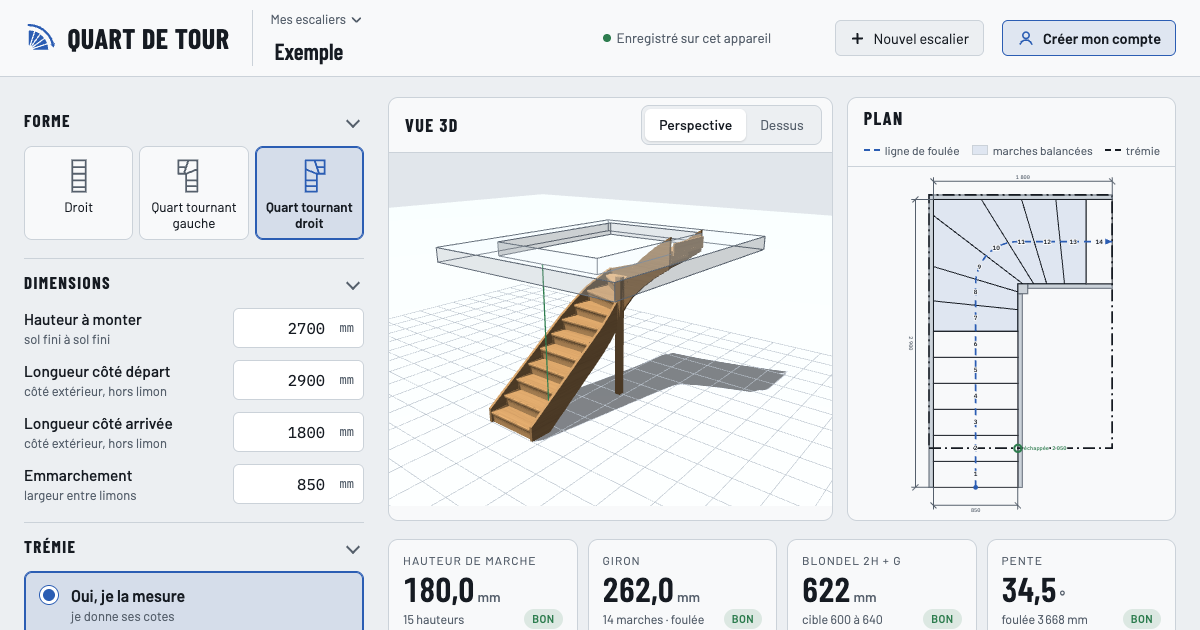
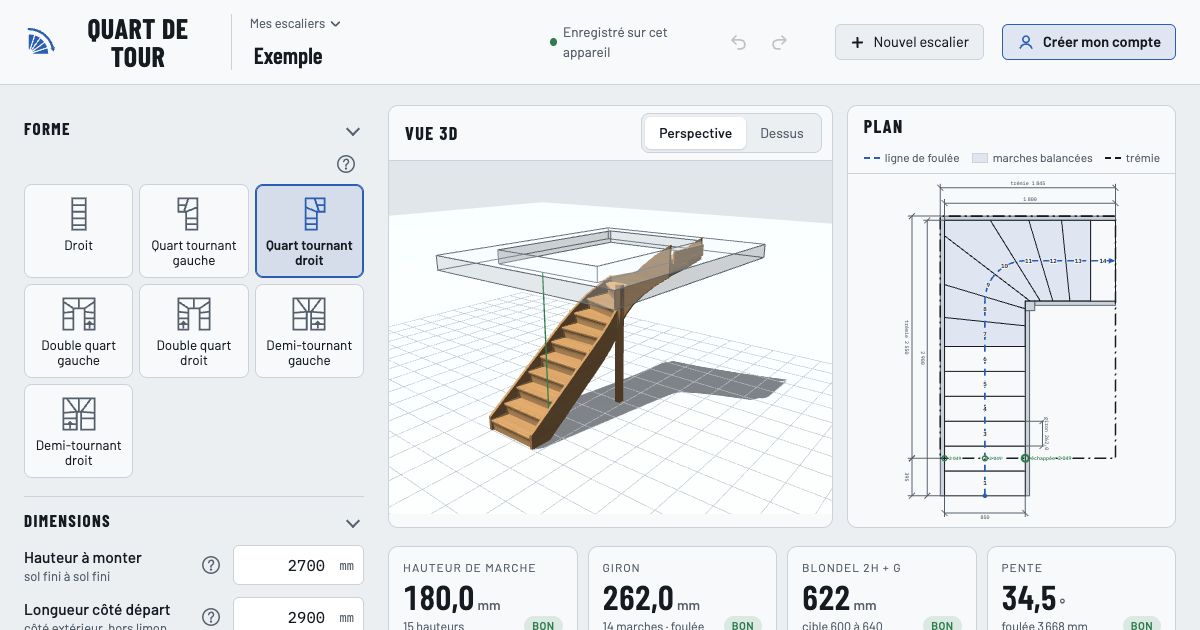
Exemple : trémie côté arrivée de 1 845, jusqu'au mur
Les 1 850 d'avant dépassaient de 5 mm le mur (B + el = 1 845 depuis le bord
du palier) : le plan cotait 1 845 et la fiche 1 850. Fiches des quarts
tournants et captures de la page publique refaites ; DXF et CSV inchangés.

diff --git a/tests/plan.test.ts b/tests/plan.test.ts
@@ -66,8 +66,9 @@ describe("plan coté", () => {
     const t = cotes(R);
     // Du départ au bord côté départ, du mur au bord côté jour : deux cotes de détail.
     for (const v of [R.A + el - 1800, R.B + el - 1200]) expect(t.find((c) => c.text === fmt(v))?.detail).toBe(true);
-    // L'exemple : 1 850 saisis, mais la trémie s'arrête au mur.
-    const E = stairOf({ forme: "quart-d" });
+    // L'exemple va du bord du palier au mur ; plus large, la trémie s'arrête au mur.
+    expect(find(stairOf({ forme: "quart-d" }), "trémie ")[1]!.text).toBe(`trémie ${fmt(DEFAULTS.tX)}`);
+    const E = stairOf({ forme: "quart-d", tX: 1900 });
     expect(find(E, "trémie ")[1]!.text).toBe(`trémie ${fmt(E.B + el)}`);
     // Trémie calculée : les cotes retenues.
     const A = stairOf({ forme: "quart-d", tAuto: true });

diff --git a/tests/summary.test.ts b/tests/summary.test.ts
@@ -9,7 +9,7 @@ describe("résumés des sections", () => {
     expect(sectionSummaries(R.params, R)).toEqual({
       forme: "Quart tournant droit",
       dimensions: "2 700 de haut · 2 900 × 1 800 · 850 de large",
-      tremie: "2 550 × 1 850",
+      tremie: "2 550 × 1 845",
       marches: "15 hauteurs de 180,0, automatique · tour de 1 260 à 2 340",
       bois: "Chêne · marches 40 · contremarches 22",
       gardecorps: "aucun",

diff --git a/src/core/params.ts b/src/core/params.ts
@@ -130,7 +130,7 @@ export const DEFAULTS: Readonly<Params> = {
   mcH: 70,
   bs: 30,
   tL: 3200,
-  tX: 1850,
+  tX: 1845,
   tY: 2550,
   tForme: "rect",
   tbD: 950,
